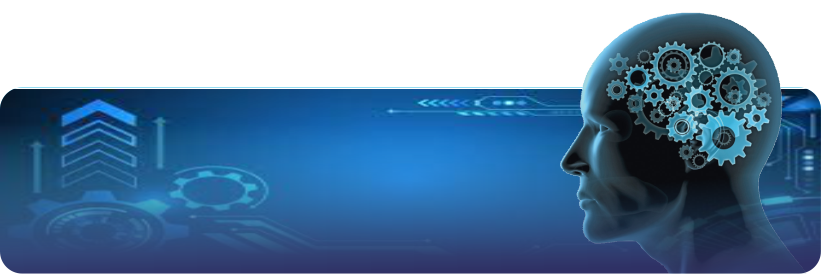
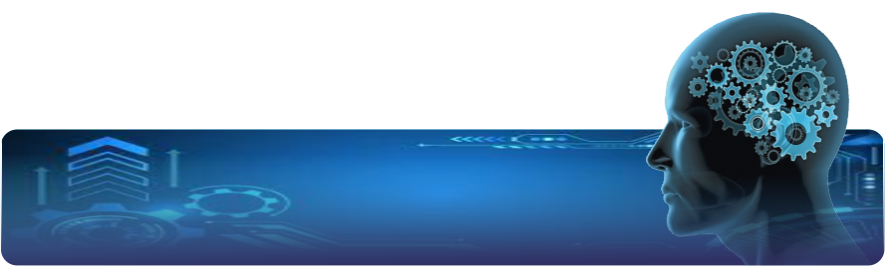
inicio

diff --git a/style.css b/style.css
@@ -1,8 +1,5 @@
-*{
-    width: 0%;
-    padding: 0%;
-    height:0%;
-}
+
+   
 body{
 
     background-image: url(Imagens/background01\ 1300x740.png);
@@ -10,11 +7,22 @@ body{
     background-repeat: no-repeat;
     width: 1348px;
     height: 2000px;
-    margin:0px;
-    display: none;
+    
 
 }
 header{
 
-
+height: 200px;
+background-color: rgb(0, 0, 0);
+margin: auto;
+width:1338px;
 }
+
+img{
+    margin: auto;
+    display: block;
+}
+
+    
+  
+  

diff --git a/index.html b/index.html
@@ -7,17 +7,14 @@
     <title>::SJ web developer::</title>
     <link rel="stylesheet" href="style.css">
 </head>
+
+<header>
+    <div>
+    <img src="Imagens/Banner 1200x400.png" alt="">
+</div>
+</header>
 <body>
-    <header>
-        <div>
-      <img src="Imagens/Banner 1200x400.png" alt="Banner">
-    </div>
-
-    </header>
-
-    <main>
-        
-    </main>
+    
     
 </body>
 </html>
